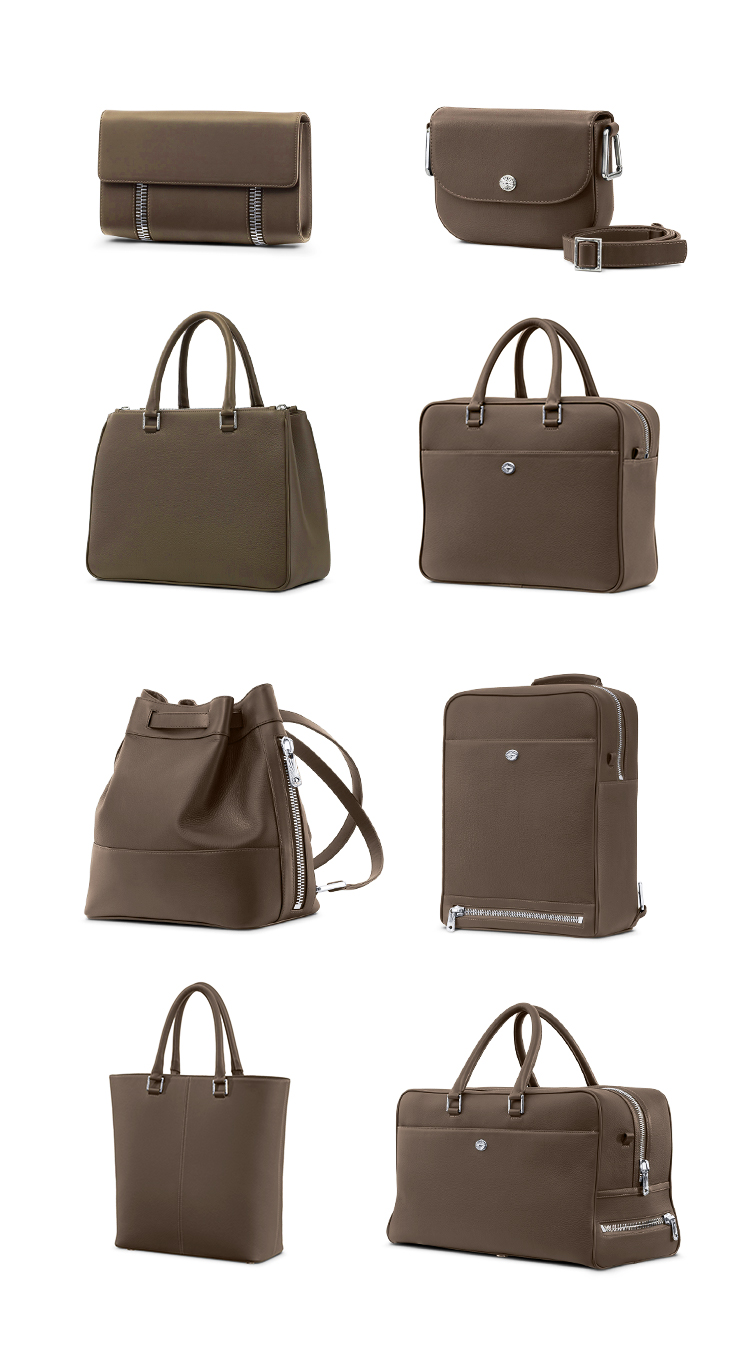
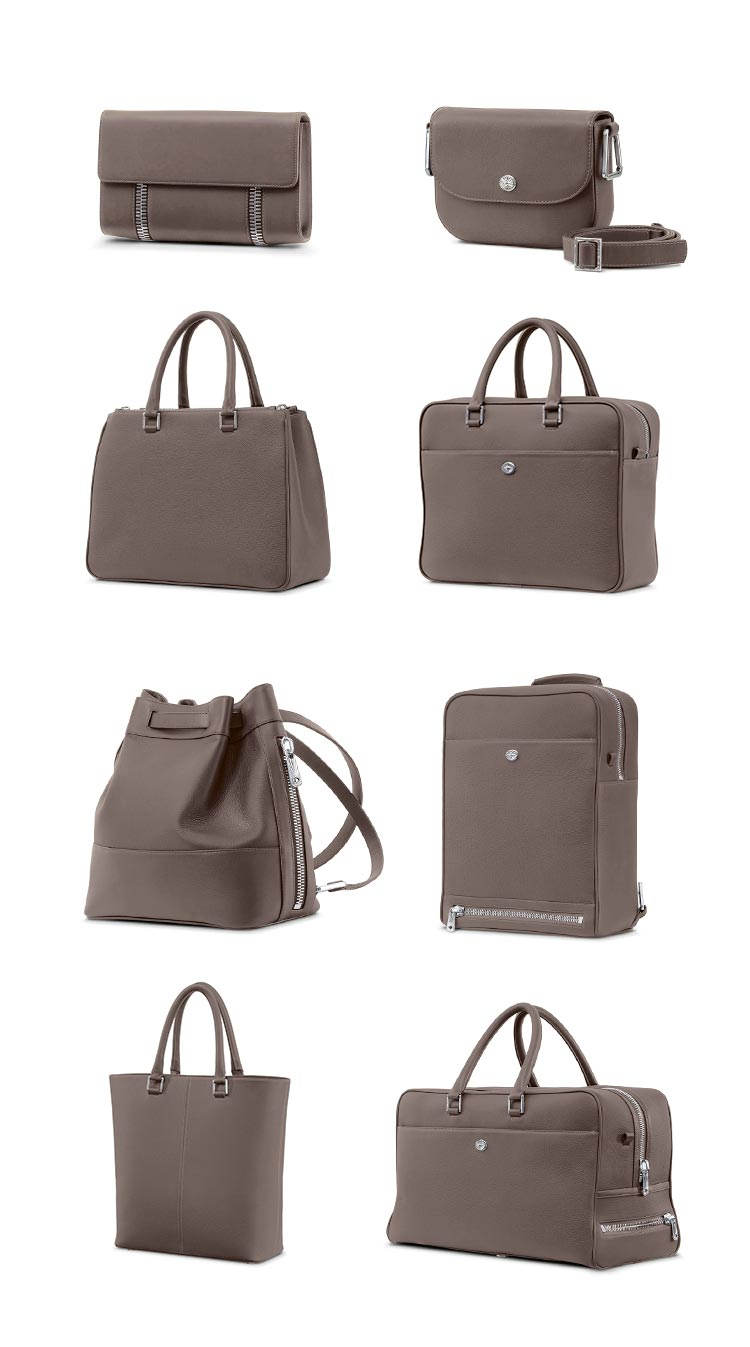
content

diff --git a/test/data.js b/test/data.js
@@ -361,7 +361,7 @@ function makedata(){
 			//+ img(image_folder + "bags_SF-Clutch-v2_1800.jpg")
 
 			+ spacer
-			+ img(image_folder + "bags_grid.jpg", "darkenImage")
+			+ img(image_folder + "bags_grid2.jpg", "darkenImage")
 			/*
 			+ spacer
 			+ img(image_folder + "bags_IMG_8892_1200.jpg")
@@ -630,7 +630,7 @@ function makedata(){
 
 			,"Other Projects"
 			,"raytrace"
-			,"Other Projects - TEST"
+			,"Other Projects"
 			,""
 			,contentlist.other
 		);

diff --git a/data.js b/data.js
@@ -361,7 +361,7 @@ function makedata(){
 			//+ img(image_folder + "bags_SF-Clutch-v2_1800.jpg")
 
 			+ spacer
-			+ img(image_folder + "bags_grid.jpg", "darkenImage")
+			+ img(image_folder + "bags_grid2.jpg", "darkenImage")
 			/*
 			+ spacer
 			+ img(image_folder + "bags_IMG_8892_1200.jpg")
